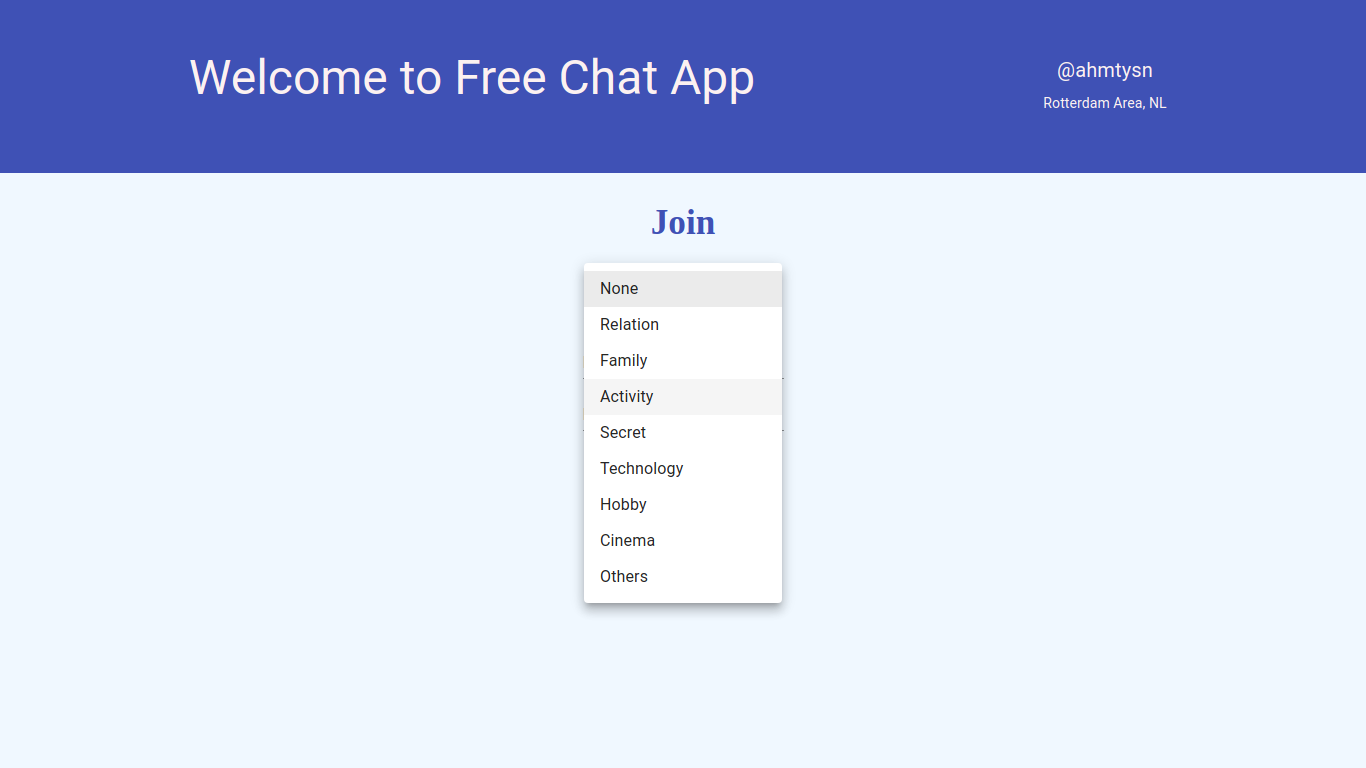
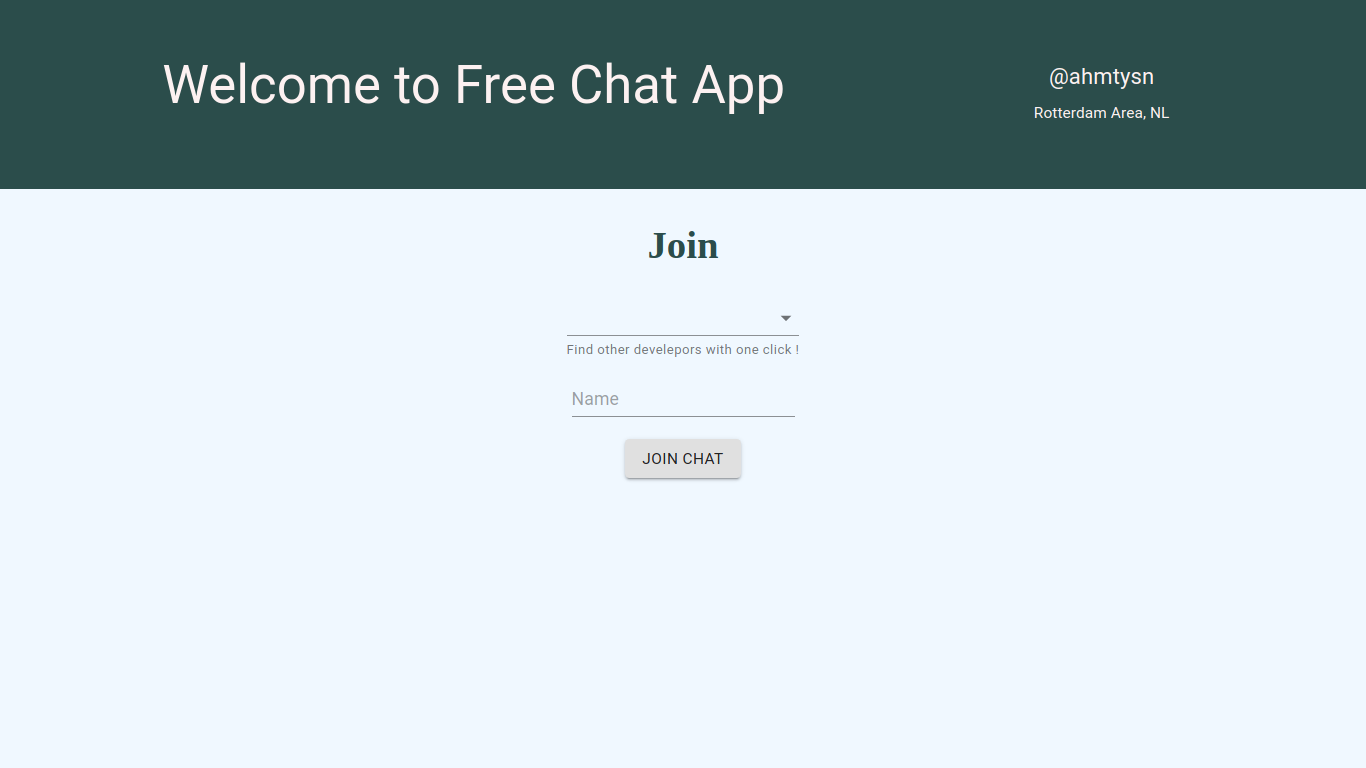
home style

diff --git a/client/src/components/Join.js b/client/src/components/Join.js
@@ -62,31 +62,25 @@ export default function SignIn() {
         <FormControl>
           <Select onChange={getRoom}>
             <MenuItem value=''>None</MenuItem>
-            <MenuItem value='Relation'>Relation</MenuItem>
-            <MenuItem value='Family'>Family</MenuItem>
-            <MenuItem value='Activity'>Activity</MenuItem>
-            <MenuItem value='Secret'>Secret</MenuItem>
-            <MenuItem value='Technology'>Technology</MenuItem>
-            <MenuItem value='Hobby'>Hobby</MenuItem>
-            <MenuItem value='Cinema'>Cinema</MenuItem>
-            <MenuItem value='Others'>Others</MenuItem>
+            <MenuItem value='JavaScript'>JavaScript</MenuItem>
+            <MenuItem value='Python'>Python</MenuItem>
+            <MenuItem value='PHP'>PHP</MenuItem>
+            <MenuItem value='Java'>Java</MenuItem>
+            <MenuItem value='C#'>C#</MenuItem>
+            <MenuItem value='Library'>Library</MenuItem>
+            <MenuItem value='FrameWork'>FrameWork</MenuItem>
+            <MenuItem value='Packages'>Packages</MenuItem>
           </Select>
-          <FormHelperText>Select or create your special room!</FormHelperText>
+          <FormHelperText>
+            Find other develepors with one click !
+          </FormHelperText>
         </FormControl>
         <form>
           <div style={{ margin: '20px' }}>
             <TextField placeholder='Name' type='text' onChange={getName} />
           </div>
-          <div style={{ marginBottom: '20px' }}>
-            <TextField
-              placeholder='Room'
-              value={room}
-              type='text'
-              onChange={getRoom}
-            />
-          </div>
           <Link to={filled && `/chat?name=${name}&room=${room}`}>
-            <Button type='submit' variant='contained' color='primary'>
+            <Button type='submit' variant='contained'>
               Join Chat
             </Button>
           </Link>

diff --git a/client/src/components/Chat.js b/client/src/components/Chat.js
@@ -9,14 +9,20 @@ import SideBarInfo from './SideBarInfo';
 import Messages from './Messages';
 import Input from './Input';
 
-const ENDPOINT = 'https://react-chat-ayk.herokuapp.com/'; // localhost:5000
+const ENDPOINT = 'localhost:5000'; //'https://react-chat-ayk.herokuapp.com/'
 let socket;
 const useStyles = makeStyles(theme => ({
   root: {
     display: 'flex',
     flexDirection: 'column',
     height: '100%',
+    // backgroundImage:
+    //   'url(' +
+    //   'https://images.pexels.com/photos/193349/pexels-photo-193349.jpeg?auto=compress&cs=tinysrgb&dpr=3&h=750&w=1260' +
+    //   ')',
+    // backgroundSize: 'cover',
   },
+
   chatContainer: {
     flex: 1,
   },
@@ -24,7 +30,10 @@ const useStyles = makeStyles(theme => ({
     display: 'flex',
     flexDirection: 'column',
     backgroundImage:
-      'url(' + 'https://wallpaperaccess.com/full/1288171.jpg' + ')',
+      'url(' +
+      'https://images.pexels.com/photos/193349/pexels-photo-193349.jpeg?auto=compress&cs=tinysrgb&dpr=3&h=750&w=1260' +
+      ')',
+    backgroundSize: 'cover',
     color: '#EDC988',
   },
   messages: {
@@ -74,7 +83,10 @@ const Chat = ({ location }) => {
           item
           sm={3}
           display={{ xs: 'none', sm: 'block' }}
-          style={{ backgroundColor: '#323739', flex: 1 }}
+          style={{
+            backgroundColor: '#28272a',
+            flex: 1,
+          }}
         >
           <SideBarInfo users={users} messages={messages} />
         </Box>

diff --git a/client/src/components/SideBarInfo.js b/client/src/components/SideBarInfo.js
@@ -6,13 +6,18 @@ const SideBarInfo = ({ users, messages }) => {
     <div style={{ padding: '30px' }}>
       {users && messages && (
         <div>
-          <div style={{ textAlign: 'center', color: '#fff' }}>
-            <img
-              style={{ width: '40%' }}
-              src='https://cdn3.iconfinder.com/data/icons/communication-media-malibu-vol-1/128/mobile-messaging-512.png'
-              alt='chat-logo'
-            />
-            <Typography variant='h5' gutterBottom>
+          <div style={{ textAlign: 'center', color: '#29735d' }}>
+            <Typography
+              variant='h5'
+              gutterBottom
+              style={{
+                fontWeight: 'bolder',
+                borderTop: '2px solid #29735d',
+                borderBottom: '2px solid #29735d',
+                padding: '10px',
+                marginBottom: '10%',
+              }}
+            >
               Online Users
             </Typography>
             <Typography variant='subtitle1' gutterBottom>
@@ -22,7 +27,8 @@ const SideBarInfo = ({ users, messages }) => {
                   style={{
                     color: '#333',
                     backgroundColor: '#f3f3f3',
-                    borderRadius: '20px',
+                    borderRadius: '10px',
+                    fontWeight: 'bolder',
                     padding: '10px',
                     marginBottom: '2px',
                   }}

diff --git a/client/src/components/Header.js b/client/src/components/Header.js
@@ -10,17 +10,25 @@ const Header = ({ name, room }) => {
       style={{
         display: 'flex',
         justifyContent: 'space-between',
-        backgroundColor: '#323739',
+        backgroundColor: '#28272a',
         color: '#fff',
+        borderBottom: '2px solid #999',
       }}
     >
       <Link to='/' style={{ display: 'flex', color: '#fff' }}>
         <BiArrowBack style={{ marginRight: '10px', fontSize: '1.5rem' }} />
       </Link>
-      <Typography variant='subtitle2' gutterBottom>
-        You are now in <span style={{ fontWeight: 'bolder' }}>{room}</span>{' '}
-        room...
-      </Typography>
+      <div style={{ textAlign: 'center' }}>
+        <Typography variant='h5' gutterBottom>
+          welcome to coders chat
+          <span style={{ fontWeight: 'bolder' }}> {name}!</span>
+        </Typography>
+        <Typography variant='subtitle2' gutterBottom>
+          ...you are now in <span style={{ fontWeight: 'bolder' }}>{room}</span>{' '}
+          room...
+        </Typography>
+      </div>
+
       <BiHelpCircle style={{ marginRight: '10px', fontSize: '1.5rem' }} />
     </div>
   );

diff --git a/client/src/components/Input.js b/client/src/components/Input.js
@@ -1,5 +1,7 @@
 import React from 'react';
 
+import './input.css';
+
 const Input = ({ setMessage, sendMessage, message }) => {
   const changeHandler = e => {
     const value = e.target.value;
@@ -10,14 +12,17 @@ const Input = ({ setMessage, sendMessage, message }) => {
     }
   };
   return (
-    <form>
+    <form className='form'>
       <input
+        className='input'
         type='text'
         placeholder='Type a message...'
         value={message}
         onChange={changeHandler}
       />
-      <button onClick={e => sendMessage(e)}>Send</button>
+      <button className='sendButton' onClick={e => sendMessage(e)}>
+        Send
+      </button>
     </form>
   );
 };

diff --git a/client/src/components/input.css b/client/src/components/input.css
@@ -1,0 +1,32 @@
+.form {
+  display: flex;
+}
+
+.input {
+  border: none;
+  border-radius: 0;
+  padding: 1%;
+  width: 80%;
+  font-size: 1.2em;
+  background-color: #2b4d4b;
+  color: #fff;
+}
+
+input:focus,
+textarea:focus,
+select:focus {
+  outline: none;
+}
+
+.sendButton {
+  color: #fff !important;
+  text-transform: uppercase;
+  font-weight: bolder;
+  font-size: large;
+  text-decoration: none;
+  background: #28272a;
+  padding: 20px;
+  display: inline-block;
+  border: none;
+  width: 20%;
+}

diff --git a/client/src/App.css b/client/src/App.css
@@ -21,12 +21,12 @@ a {
   text-decoration: none;
 }
 .home-header {
-  background-color: #3f51b5;
+  background-color: #2b4d4b;
   padding: 50px;
   color: #fcf1f1;
 }
 .home-body h2 {
   padding: 30px;
   font-size: 2.2rem;
-  color: #3f51b5;
+  color: #2b4d4b;
 }

diff --git a/client/src/components/message.css b/client/src/components/message.css
@@ -56,14 +56,16 @@
 
 .colorWhite {
   color: white;
+  font-weight: bold;
 }
 
 .colorDark {
   color: #353535;
+  font-weight: bold;
 }
 
 .backgroundBlue {
-  background: #2979ff;
+  background: #2b4d4b;
 }
 
 .backgroundLight {

diff --git a/README.md b/README.md
@@ -18,3 +18,4 @@ Setup:
 
   <img src = "images/chat1.png" />
   <img src = "images/chat2.png" />
+  <img src = "images/chat3.png" />
